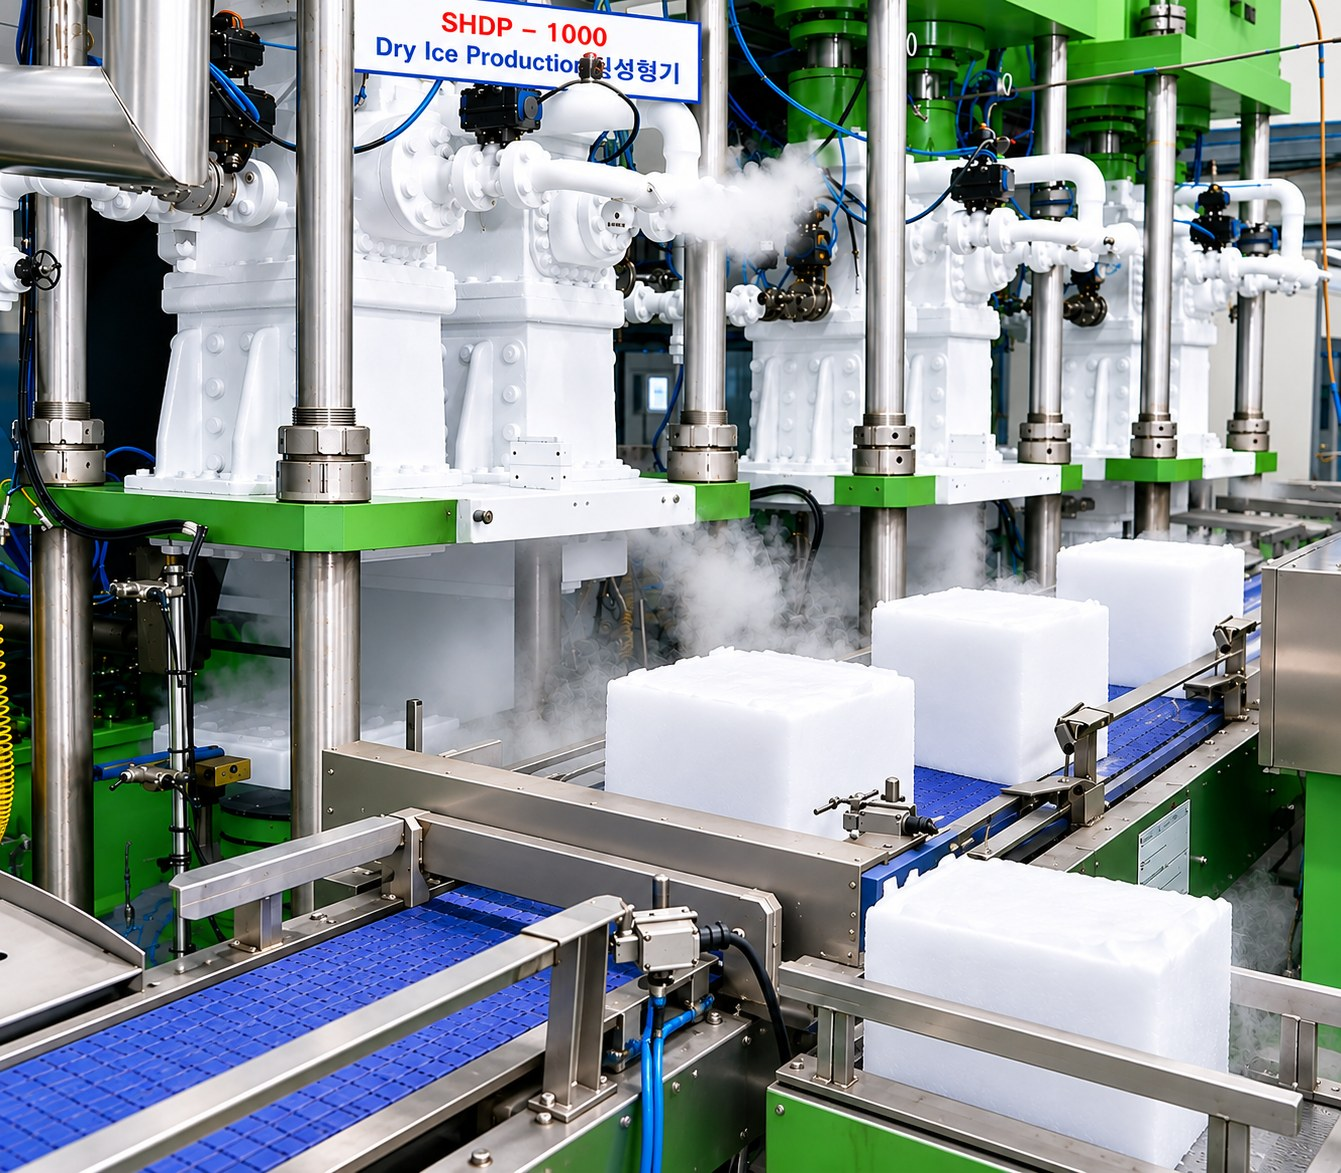
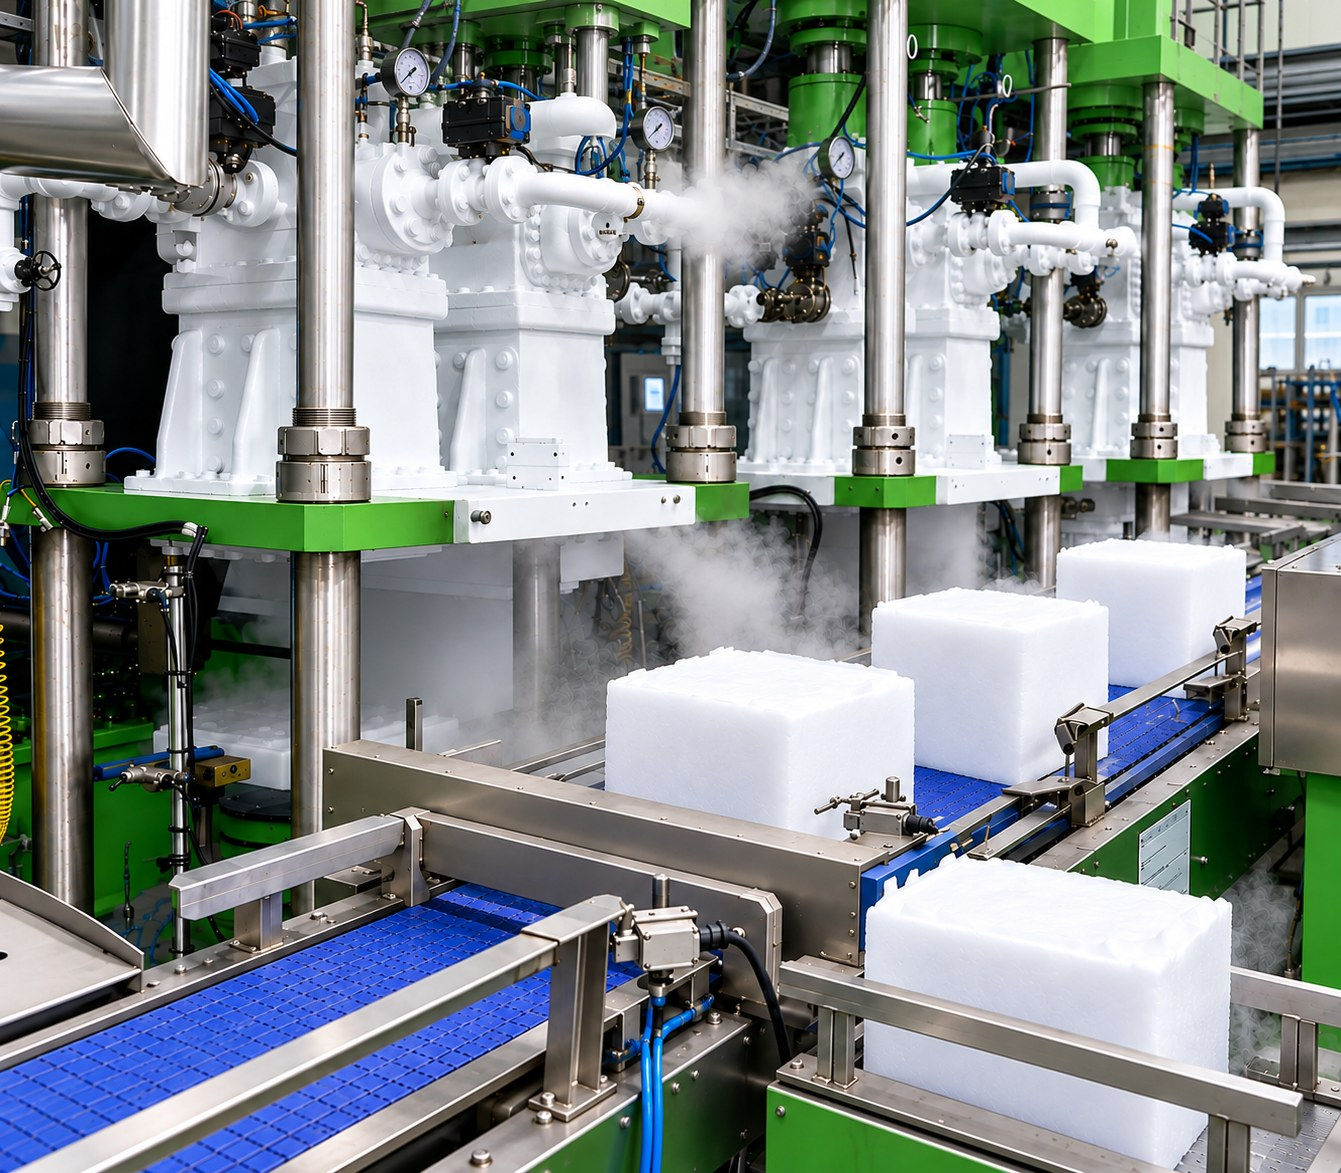
드라이아이스 블록 라인업 첫 번째 사진을 새 다열 생산 라인 사진으로 교체(기존 덮어쓰기). ice-block.jpg ?v=20260913b

diff --git a/products-ice.html b/products-ice.html
@@ -220,7 +220,7 @@
           <div class="prodlineup__panel" role="tabpanel" data-cat="block" hidden>
         <div class="ice-slideshow" data-interval="3000">
           <div class="ice-slideshow__frame">
-            <img class="ice-slide is-active" src="assets/images/site/ice-block.jpg?v=20260913" alt="블록 드라이아이스 생산 라인(SHDP-1000)" loading="lazy">
+            <img class="ice-slide is-active" src="assets/images/site/ice-block.jpg?v=20260913b" alt="블록 드라이아이스 생산 라인(SHDP-1000)" loading="lazy">
             <img class="ice-slide" src="assets/images/site/ice-block-2.jpg?v=20260913" alt="블록 드라이아이스 성형·배출 공정" loading="lazy">
             <img class="ice-slide" src="assets/images/site/ice-block-3.jpg?v=20260913" alt="블록 드라이아이스 생산 설비 전경" loading="lazy">
             <img class="ice-slide" src="assets/images/site/ice-block-4.jpg?v=20260913" alt="블록 드라이아이스 생산 설비·작업장 전경" loading="lazy">
